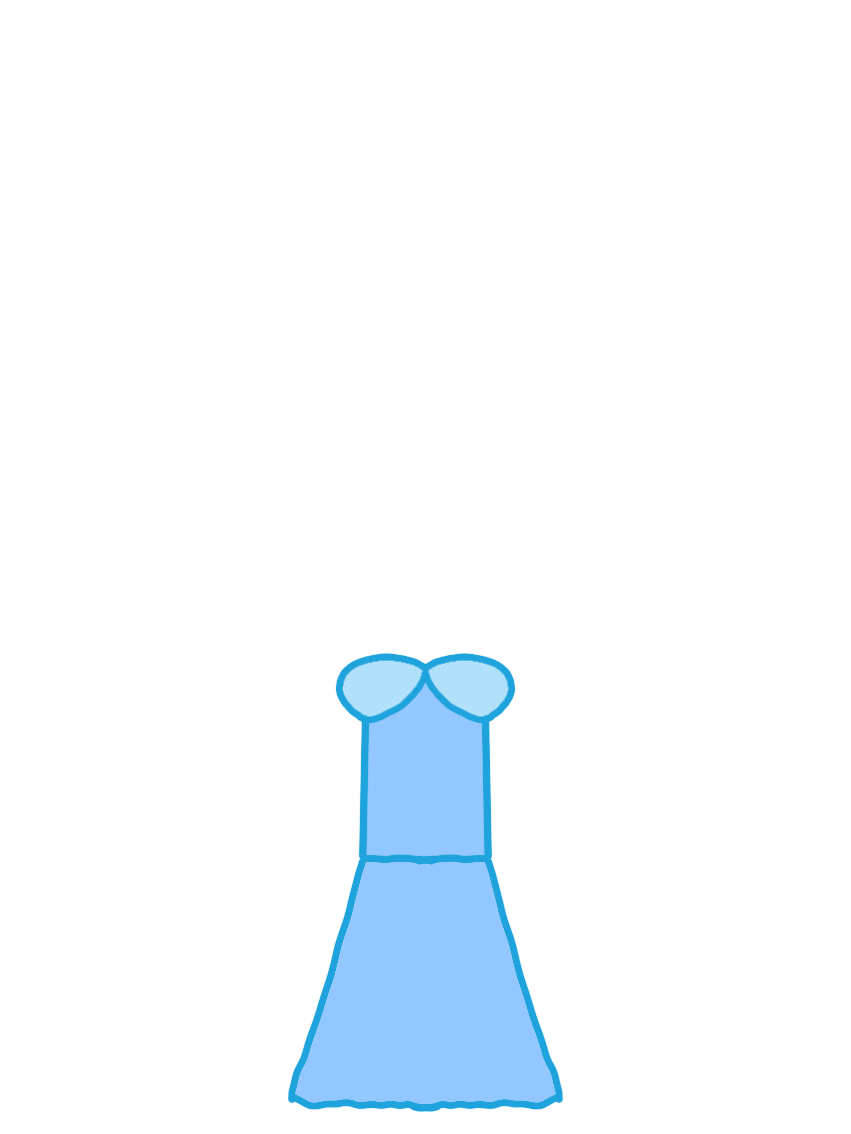
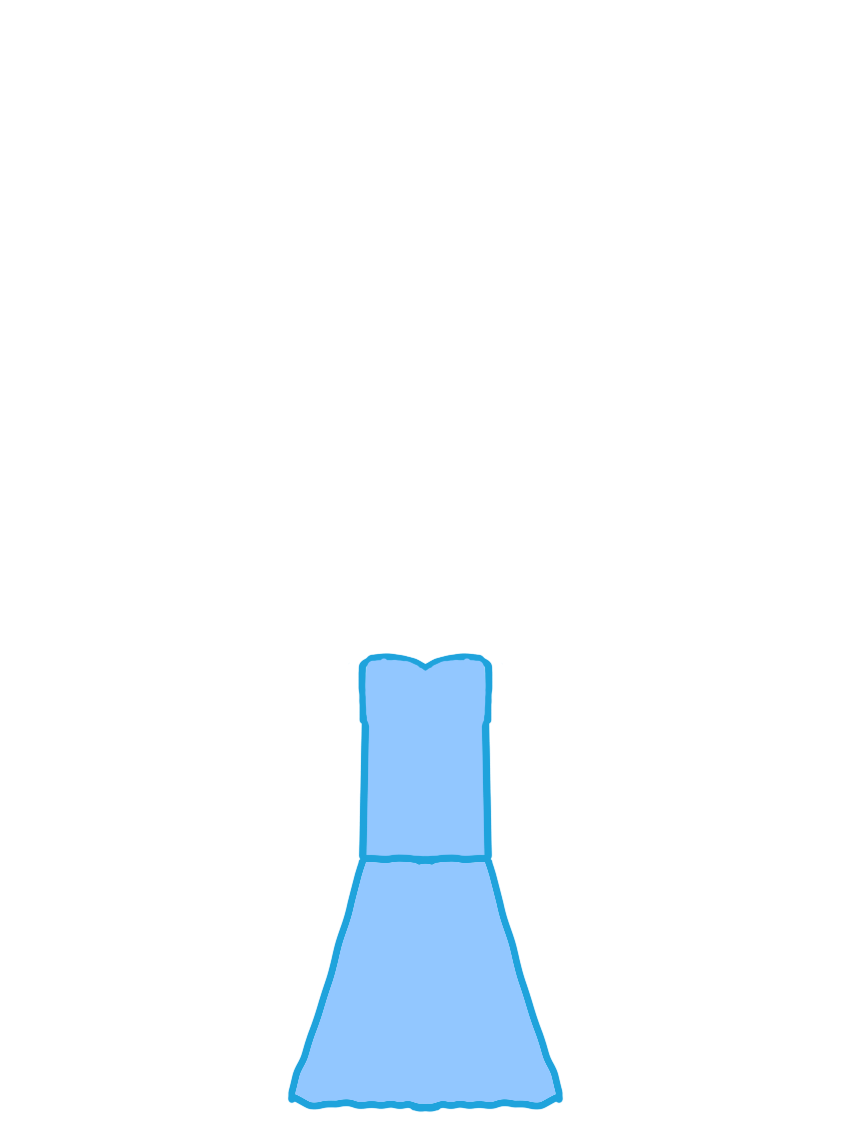
New strapless dress1, add hat1; default and Casual outfit is bottomunderwear1 + dress1 + hat1
Claude-Session: https://claude.ai/code/session_01EVENY8xfUrUkUxAf6QDg2b

Changed region(s): [[0.3972, 0.5556, 0.611, 0.6481]]

diff --git a/outfit_presets.js b/outfit_presets.js
@@ -30,8 +30,7 @@ window.OUTFIT_PRESETS = [
   {
     name: "Casual",
     emoji: "👕",
-    clothes: { top: "top1", topUnderwear: "topunderwear1", bottomUnderwear: "bottomunderwear1",
-               bottom: "skirt1", socks: "socks1", shoes: "shoes1" },
+    clothes: { bottomUnderwear: "bottomunderwear1", dress: "dress1", hat: "hat1" },
   },
   {
     name: "Comfy",

diff --git a/outfit_config.js b/outfit_config.js
@@ -91,11 +91,9 @@ window.OUTFIT_CONFIG = {
 
   // What the pet is wearing on a fresh start. Anything left out starts as None.
   defaults: {
-    top: "top1",
-    topUnderwear: "topunderwear1",
     bottomUnderwear: "bottomunderwear1",
-    bottom: "skirt1",
-    socks: "socks1",
-    shoes: "shoes1",
+    dress: "dress1",
+    hat: "hat1",
   },
+
 };
